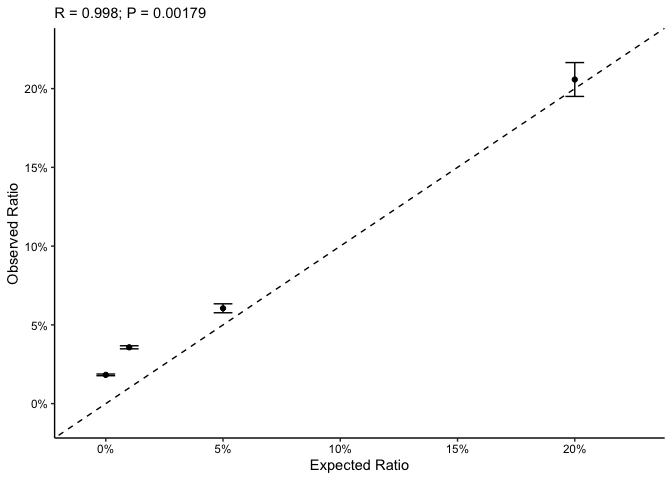
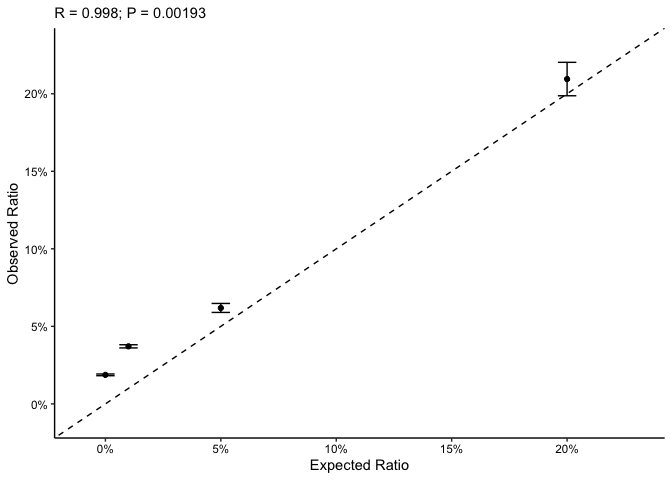
update README

diff --git a/README.md b/README.md
@@ -5,174 +5,187 @@
 <!-- badges: start -->
 <!-- badges: end -->
 
+`compassanalyzer` quantifies the non-canonical initiating nucleotide (NCIN) capping ratio at transcript-resolution using CompasSeq data. In brief, `compassanalyzer` employs stepwise normalization to account for unwanted technical variation across samples and employs an empirical Bayes shrinkage approach to estimate transcript-specific NCIN capping ratios across the epitranscriptome.
+
+For a more detailed description of `compassanalyzer`, check out our publication **“CompasSeq: epitranscriptome-wide percentage assessment of metabolite-capped RNA at the transcript resolution”** in Nature Communications (<DOI:10.1038/s41467-025-61697-y>). Please cite this article if you use `compassanalyzer` in your studies, and we’d be very grateful!
+
 ## Installation
 
 You can install the development version of compassanalyzer like so:
 
-```R
-# install.packages("devtools")
-devtools::install_github("thereallda/compassanalyzer")
-```
+    # install.packages("devtools")
+    devtools::install_github("thereallda/compassanalyzer")
 
 ## Quick Start
 
 ### Load package
 
-```R
-library(tidyverse)
+`compassanalyzer` relies on `enONE` to perform RUV normalization to estimate unwanted variation. Please make sure you have installed the `enONE` package.
 
-# if you do not have `enONE` package installed, run the following code first: 
-# devtools::install_github("thereallda/enONE")
-if (!requireNamespace("enONE", quietly = TRUE)) { devtools::install_github("thereallda/enONE") }
-library(enONE)
-library(compassanalyzer)
-```
+    library(tidyverse)
+
+    # if you do not have `enONE` package installed, run the following code first: 
+    # devtools::install_github("thereallda/enONE")
+    if (!requireNamespace("enONE", quietly = TRUE)) { devtools::install_github("thereallda/enONE") }
+    library(enONE)
+    library(compassanalyzer)
 
 ### Load data
 
-```R
-counts_df <- read.csv("data/Counts_demo.csv", row.names = 1)
-meta <- read.csv("data/meta_demo.csv")
-head(meta)
-#>        id   condition replicate enrich biology
-#> 1 Y1.CRNT Young.Input         1  Input   Young
-#> 2 Y2.CRNT Young.Input         2  Input   Young
-#> 3 Y3.CRNT Young.Input         3  Input   Young
-#> 4 O1.CRNT   Old.Input         1  Input     Old
-#> 5 O2.CRNT   Old.Input         2  Input     Old
-#> 6 O3.CRNT   Old.Input         3  Input     Old
-# rownames of metadata should be consistent with the colnames of counts_mat
-rownames(meta) <- meta$id
+For this tutorial, we will demonstrate the `compassanalyzer` workflow by using a CompasSeq data from mouse livers.
 
-# metadata for synthetic RNA
-syn_id <- paste("syn",1:4, sep = "_")
-syn_meta <- data.frame(
-  id = syn_id,
-  per = c(0.05,0.01,0.20,0)
-)
-```
+Notably, we included three types of spike-in RNAs:
+
+-   Total RNAs from Drosophila melanogaster, an invertebrate model organism with well-annotated genome sequence, for estimating the unwanted variation;
+-   Synthetic RNAs, consisting of 0%, 1%, 5%, and 20% NAD-capping, for assessing the quantification accuracy of `compassanalyzer`
+
+![](images/clipboard-2846333921.png)
+
+    counts_df <- read.csv("data/Counts_demo.csv", row.names = 1)
+    meta <- read.csv("data/meta_demo.csv")
+    head(meta)
+    #>        id   condition replicate enrich biology
+    #> 1 Y1.CRNT Young.Input         1  Input   Young
+    #> 2 Y2.CRNT Young.Input         2  Input   Young
+    #> 3 Y3.CRNT Young.Input         3  Input   Young
+    #> 4 O1.CRNT   Old.Input         1  Input     Old
+    #> 5 O2.CRNT   Old.Input         2  Input     Old
+    #> 6 O3.CRNT   Old.Input         3  Input     Old
+    # rownames of metadata should be consistent with the colnames of counts_mat
+    rownames(meta) <- meta$id
+
+    # metadata for synthetic RNA
+    syn_id <- paste("syn",1:4, sep = "_")
+    syn_meta <- data.frame(
+      id = syn_id,
+      per = c(0.05,0.01,0.20,0)
+    )
 
 ### Filtering
 
-```R
-counts_keep <- enONE::FilterLowExprGene(counts_df,
-                                        group = meta$condition,
-                                        min.count = 20)
-```
+We consider genes with at least 20 counts in more than 2 samples.
+
+    counts_keep <- enONE::FilterLowExprGene(counts_df,
+                                            group = meta$condition,
+                                            min.count = 20)
 
 ### Create object
 
-```R
-Compass <- createCompass(counts_keep,
+When constructing `Compass` object, we can provide following arguments:
+
+-   Prefix of spike-in genes (`spike.in.prefix = "^FB"`);
+
+-   The id of synthetic spike-in (`synthetic.id = c("syn_1", "syn_2", "syn_3", "syn_4")`), which should be consistent with row names in `counts_mat`;
+
+-   The id of input (`input.id = "Input"`) and enrichment (`enrich.id = "Enrich"`), same as the enrich column.
+
+<!-- -->
+
+    Compass <- createCompass(counts_keep,
+                             col.data = meta,
+                             spike.in.prefix = "^FB",
+                             input.id = "Input",
+                             enrich.id = "Enrich",
+                             synthetic.id = syn_meta$id)
+
+### Using enONE to perform RUV normalization
+
+    Enone <- createEnone(data = counts_keep,
                          col.data = meta,
-                         spike.in.prefix = "^FB",
+                         spike.in.prefix = "FB",
                          input.id = "Input",
-                         enrich.id = "Enrich",
-                         synthetic.id = syn_meta$id)
-```
-
-### Use enONE to perform RUV normalization
-
-```R
-Enone <- createEnone(data = counts_keep,
-                     col.data = meta,
-                     spike.in.prefix = "FB",
-                     input.id = "Input",
-                     enrich.id = "Enrich"
-)
-Enone <- enONE(Enone,
-               scaling.method = c("TMM"),
-               ruv.norm = TRUE, ruv.k = 3,
-               eval.pam.k = 2:4, eval.pc.n = 3,
-               return.norm = TRUE
-)
-#> Gene set selection for normalization and assessment...
-#> - The number of negative control genes for normalization: 1000 
-#> - Estimate dispersion & Fit GLM... 
-#> - Testing differential genes... 
-#> - The number of positive evaluation genes: 500 
-#> - Estimate dispersion & Fit GLM... 
-#> - Testing differential genes... 
-#> - The number of negative evaluation genes: 500 
-#> - Estimate dispersion & Fit GLM... 
-#> - Testing differential genes... 
-#> Apply normalization...
-#> - Scaling... 
-#> - Regression-based normalization... 
-#> Perform assessment...
-# use RUVs_k3
-norm.factors <- enONE::getFactor(Enone, slot="sample", method="TMM_RUVs_k3")
-names(norm.factors)
-#> [1] "normFactor"   "adjustFactor" "alpha"
-```
+                         enrich.id = "Enrich"
+    )
+    Enone <- enONE(Enone,
+                   scaling.method = c("TMM"),
+                   ruv.norm = TRUE, ruv.k = 3,
+                   eval.pam.k = 2:4, eval.pc.n = 3,
+                   return.norm = TRUE
+    )
+    #> Gene set selection for normalization and assessment...
+    #> - The number of negative control genes for normalization: 1000 
+    #> - Estimate dispersion & Fit GLM... 
+    #> - Testing differential genes... 
+    #> - The number of positive evaluation genes: 500 
+    #> - Estimate dispersion & Fit GLM... 
+    #> - Testing differential genes... 
+    #> - The number of negative evaluation genes: 500 
+    #> - Estimate dispersion & Fit GLM... 
+    #> - Testing differential genes... 
+    #> Apply normalization...
+    #> - Scaling... 
+    #> - Regression-based normalization... 
+    #> Perform assessment...
+    # use RUVs_k3
+    norm.factors <- enONE::getFactor(Enone, slot="sample", method="TMM_RUVs_k3")
+    names(norm.factors)
+    #> [1] "normFactor"   "adjustFactor" "alpha"
 
 ### Calculate Ratio
 
-RUV factors from enONE can be passed into CompassAnalyze for ratio calculation.
+RUV factors from `enONE` can be passed into `compassanalyzer` for ratio calculation.
 
 To obtain further accurate NCIN capping ratio, `ratio.shrinkage = TRUE` can be applied.
 
-```R
-Compass <- CompassAnalyze(Compass,
-                           adjust = TRUE,
-                           prop.top.enrich = 0.8,
-                           decreasing = TRUE,
-                           pseudo.count = 1,
-                           enone.ruv.factor = norm.factors,
-                           ratio.shrinkage = TRUE)
-#> Global scaling...
-#> Adjustment...
-#> Computation of NCIN Ratio...
-# prior ratio
-ratio_pri_df <- getRatio(Compass, slot = "sample", ratio.shrinkage = F, filter = T)
-head(ratio_pri_df)
-#>                       Y1.YCNT    Y2.YCNT   Y3.YCNT    O1.YCNT    O2.YCNT
-#> ENSMUSG00000097426 0.48710389 0.99000476 0.4936661 0.73750361 0.24354681
-#> ENSMUSG00000102095 0.82912948 0.85157477 0.4795359 0.35906067 0.77368374
-#> ENSMUSG00000100954 0.04565622 0.05748047 0.1249243 0.02888247 0.02975081
-#> ENSMUSG00000051285 0.89163156 0.61455594 0.6860022 0.88205010 0.91585482
-#> ENSMUSG00000048538 0.28660934 0.15923379 0.1990585 0.24455298 0.16976447
-#> ENSMUSG00000057363 0.32945563 0.33476174 0.3458781 0.10474213 0.19740588
-#>                       O3.YCNT
-#> ENSMUSG00000097426 0.43702484
-#> ENSMUSG00000102095 0.36310817
-#> ENSMUSG00000100954 0.02574135
-#> ENSMUSG00000051285 0.39694064
-#> ENSMUSG00000048538 0.10497186
-#> ENSMUSG00000057363 0.26909517
+    Compass <- CompassAnalyze(Compass,
+                               adjust = TRUE,
+                               prop.top.enrich = 0.8,
+                               decreasing = TRUE,
+                               pseudo.count = 1,
+                               enone.ruv.factor = norm.factors,
+                               ratio.shrinkage = TRUE)
+    #> Global scaling...
+    #> Adjustment...
+    #> Computation of NCIN Ratio...
+    # prior ratio
+    ratio_pri_df <- getRatio(Compass, slot = "sample", ratio.shrinkage = F, filter = T)
+    head(ratio_pri_df)
+    #>                      Y1.YCNT    Y2.YCNT   Y3.YCNT    O1.YCNT    O2.YCNT
+    #> ENSMUSG00000102095 0.8760169 0.85110650 0.6406086 0.45137139 0.82456465
+    #> ENSMUSG00000100954 0.0675589 0.07308805 0.1478581 0.04505377 0.04822527
+    #> ENSMUSG00000051285 0.9063729 0.61631150 0.7027077 0.88291054 0.92033825
+    #> ENSMUSG00000048538 0.3355405 0.19180049 0.2284953 0.29898472 0.26557362
+    #> ENSMUSG00000057363 0.3877506 0.38546594 0.3984642 0.14325951 0.24661647
+    #> ENSMUSG00000033021 0.1078250 0.09019188 0.1323975 0.10851616 0.11100149
+    #>                       O3.YCNT
+    #> ENSMUSG00000102095 0.46799184
+    #> ENSMUSG00000100954 0.04397671
+    #> ENSMUSG00000051285 0.40701103
+    #> ENSMUSG00000048538 0.16897713
+    #> ENSMUSG00000057363 0.31397557
+    #> ENSMUSG00000033021 0.09994700
 
-# To get shrunk ratio
-qratio_ls <- getRatio(Compass, slot = "sample", ratio.shrinkage = T, filter = T)
-names(qratio_ls)
-#> [1] "Old"   "Young"
-head(qratio_ls$Young)
-#>               GeneID    Y1.YCNT    Y2.YCNT    Y3.YCNT ratio.shrunk
-#> 2 ENSMUSG00000000049 0.04597514 0.03833789 0.04767986   0.04399781
-#> 3 ENSMUSG00000000056 0.62025719 0.45506273 0.54518925   0.54031978
-#> 4 ENSMUSG00000000078 0.31871490 0.19851584 0.33836185   0.28532273
-#> 5 ENSMUSG00000000085 0.79234184 0.62394300 0.78914356   0.73589163
-#> 6 ENSMUSG00000000088 0.05789702 0.05725308 0.05573969   0.05696327
-#> 7 ENSMUSG00000000120 0.28749458 0.28231165 0.23467812   0.26817968
-#>   ratio.shrunk.sd
-#> 2    0.0028723388
-#> 3    0.0477495990
-#> 4    0.0437030429
-#> 5    0.0557679713
-#> 6    0.0006394031
-#> 7    0.0168079741
-```
+    # To get shrunk ratio
+    qratio_ls <- getRatio(Compass, slot = "sample", ratio.shrinkage = T, filter = T)
+    names(qratio_ls)
+    #> [1] "Old"   "Young"
+    head(qratio_ls$Young)
+    #>               GeneID    Y1.YCNT    Y2.YCNT    Y3.YCNT ratio.shrunk
+    #> 2 ENSMUSG00000000049 0.04600355 0.03835692 0.04770413   0.04402174
+    #> 3 ENSMUSG00000000056 0.62350553 0.45791580 0.54813227   0.54338147
+    #> 4 ENSMUSG00000000078 0.37052160 0.23323078 0.37417502   0.32611932
+    #> 5 ENSMUSG00000000085 0.79885762 0.62883404 0.80058388   0.74415877
+    #> 6 ENSMUSG00000000088 0.05824312 0.05751213 0.05603951   0.05726493
+    #> 7 ENSMUSG00000000120 0.36088816 0.31905863 0.27540424   0.31849086
+    #>   ratio.shrunk.sd
+    #> 2    0.0028745359
+    #> 3    0.0478876714
+    #> 4    0.0463753959
+    #> 5    0.0570640663
+    #> 6    0.0006480261
+    #> 7    0.0246775840
 
 ### Synthetic RNA Calibration curve
 
-```R
-syn_ratio <- synRatio(Compass, ratio.shrinkage=TRUE, syn.meta = syn_meta)
-head(syn_ratio)
-#>   GeneID      ratio    ratio.sd     ratio.se  per
-#> 1  syn_1 0.06052904 0.006964224 0.0028431327 0.05
-#> 2  syn_2 0.03576192 0.002397542 0.0009787922 0.01
-#> 3  syn_3 0.20577485 0.026321464 0.0107456927 0.20
-#> 4  syn_4 0.01825970 0.001318250 0.0005381733 0.00
-synScatter(ratio.df = syn_ratio, syn.meta = syn_meta)
-```
+Finally, we can use synthetic RNAs with known capping ratio to check the accuracy of our quantification.
+
+    syn_ratio <- synRatio(Compass, ratio.shrinkage=TRUE, syn.meta = syn_meta)
+    head(syn_ratio)
+    #>   GeneID      ratio    ratio.sd     ratio.se  per
+    #> 1  syn_1 0.06187351 0.007097955 0.0028977282 0.05
+    #> 2  syn_2 0.03711141 0.002504890 0.0010226169 0.01
+    #> 3  syn_3 0.20948635 0.026411163 0.0107823121 0.20
+    #> 4  syn_4 0.01871811 0.001357093 0.0005540309 0.00
+    synScatter(ratio.df = syn_ratio, syn.meta = syn_meta)
 
 <img src="man/figures/README-unnamed-chunk-8-1.png" width="100%" />

diff --git a/LICENSE.md b/LICENSE.md
@@ -1,6 +1,6 @@
 # MIT License
 
-Copyright (c) 2023 qNCIN authors
+Copyright (c) 2023 compassanalyzer authors
 
 Permission is hereby granted, free of charge, to any person obtaining a copy
 of this software and associated documentation files (the "Software"), to deal
